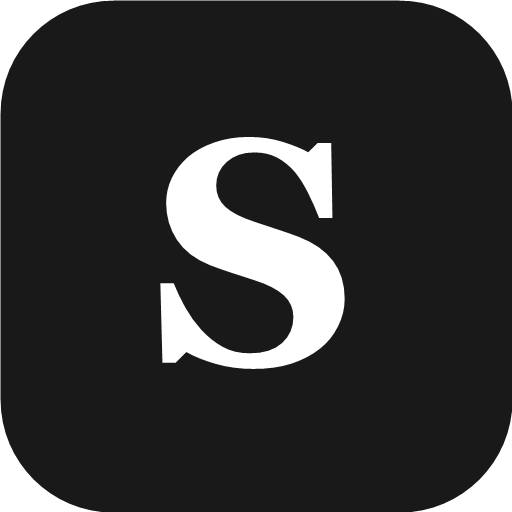
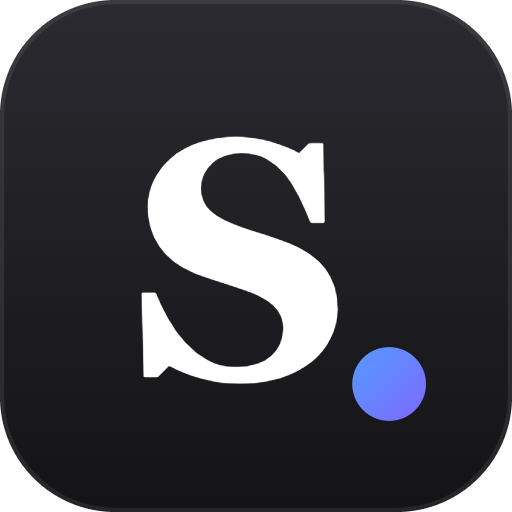
새 아이콘(검은 바탕·세리프 S·파란 점), 상단 바 검은색, 프로그램 설치 버튼 아이콘 단순하게

diff --git a/css/app.css b/css/app.css
@@ -29,18 +29,23 @@ button { cursor: pointer; }
 [hidden] { display: none !important; }
 
 /* 제목 줄 */
-.titlebar { display: flex; align-items: center; gap: 10px; padding: 0 12px; padding-top: env(safe-area-inset-top); height: calc(46px + env(safe-area-inset-top)); background: var(--paper); color: var(--ink); border-bottom: 1px solid var(--line); flex: none; }
+/* 상단 바: 검은색 */
+.titlebar { display: flex; align-items: center; gap: 10px; padding: 0 12px; padding-top: env(safe-area-inset-top); height: calc(46px + env(safe-area-inset-top)); background: #191919; color: #fff; flex: none; }
+.logo-img { width: 26px; height: 26px; border-radius: 6px; display: block; }
+.logo-img.big { width: 48px; height: 48px; border-radius: 11px; margin-bottom: 10px; }
+.ico { width: 17px; height: 17px; flex: none; }
 .brand { display: flex; align-items: center; gap: 8px; font-weight: 600; white-space: nowrap; }
 .logo { width: 24px; height: 24px; border-radius: 6px; background: var(--logo-bg); color: var(--logo-fg); display: grid; place-items: center; font-weight: 800; font-size: 15px; font-family: Georgia, "Times New Roman", serif; }
-.search { flex: 1; max-width: 420px; margin: 0 auto; display: flex; align-items: center; gap: 6px; background: var(--hover); border-radius: 6px; padding: 0 10px; height: 30px; color: var(--muted); }
+.search { flex: 1; max-width: 420px; margin: 0 auto; display: flex; align-items: center; gap: 6px; background: rgba(255, 255, 255, .1); border-radius: 6px; padding: 0 10px; height: 30px; color: rgba(255, 255, 255, .6); }
+.search:focus-within { background: rgba(255, 255, 255, .16); }
 .search svg { width: 15px; height: 15px; fill: none; stroke: currentColor; stroke-width: 2; flex: none; }
-.search input { flex: 1; min-width: 0; border: 0; background: transparent; outline: none; color: var(--ink); }
-.search input::placeholder { color: var(--muted); }
-.sync { font-size: 12px; color: var(--muted); white-space: nowrap; }
-.tb-btn { background: transparent; border: 0; color: var(--ink); height: 30px; min-width: 30px; border-radius: 6px; padding: 0 8px; }
-.tb-btn:hover { background: var(--hover); }
+.search input { flex: 1; min-width: 0; border: 0; background: transparent; outline: none; color: #fff; }
+.search input::placeholder { color: rgba(255, 255, 255, .55); }
+.sync { font-size: 12px; color: rgba(255, 255, 255, .6); white-space: nowrap; }
+.tb-btn { background: transparent; border: 0; color: #fff; height: 30px; min-width: 30px; border-radius: 6px; padding: 0 8px; }
+.tb-btn:hover { background: rgba(255, 255, 255, .12); }
 #navBack { font-size: 24px; line-height: 1; }
-.acct { font-size: 12px; border: 1px solid var(--line-2); white-space: nowrap; max-width: 160px; overflow: hidden; text-overflow: ellipsis; }
+.acct { font-size: 12px; border: 1px solid rgba(255, 255, 255, .25); white-space: nowrap; max-width: 160px; overflow: hidden; text-overflow: ellipsis; }
 
 /* 리본 */
 .ribbon-tabs { display: flex; gap: 2px; background: var(--paper); padding: 0 8px; flex: none; overflow-x: auto; }

diff --git a/index.html b/index.html
@@ -4,7 +4,7 @@
 <meta charset="utf-8">
 <meta name="viewport" content="width=device-width,initial-scale=1,viewport-fit=cover">
 <title>에스 노트</title>
-<meta name="theme-color" content="#ffffff">
+<meta name="theme-color" content="#191919">
 <link rel="icon" href="icons/icon.svg" type="image/svg+xml">
 <link rel="icon" href="icons/icon-192.png" sizes="192x192">
 <link rel="apple-touch-icon" href="icons/icon-180.png">
@@ -22,7 +22,7 @@
 <header class="titlebar">
   <button class="tb-btn only-narrow" id="navBack" aria-label="뒤로" hidden>‹</button>
   <button class="tb-btn wide-only" id="navToggle" title="목록 접기 (전체 페이지 보기)" aria-label="목록 접기·펴기">☰</button>
-  <div class="brand"><span class="logo">S</span><span class="brand-name">에스 노트</span></div>
+  <div class="brand"><img class="logo-img" src="icons/icon-192.png" alt=""><span class="brand-name">에스 노트</span></div>
   <label class="search"><svg viewBox="0 0 20 20" aria-hidden="true"><circle cx="8.5" cy="8.5" r="5.5"/><path d="M13 13l4 4"/></svg><input id="search" type="search" placeholder="모든 노트 검색" autocomplete="off"></label>
   <span class="sync" id="sync" role="status"></span>
   <button class="tb-btn" id="focusBtn" title="글만 크게 보기 (메뉴 숨기기)" aria-label="글만 크게 보기">⤢</button>
@@ -104,7 +104,7 @@
   </div>
 
   <div class="panel" data-panel="settings" hidden>
-    <div class="grp"><button class="big" id="openSettings">⚙ 설정 열기</button><button class="big" id="openStorage">☁ 저장 위치·계정</button><button class="big" id="installApp">💻 프로그램으로 설치</button></div>
+    <div class="grp"><button class="big" id="openSettings">⚙ 설정 열기</button><button class="big" id="openStorage">☁ 저장 위치·계정</button><button class="big" id="installApp"><svg class="ico" viewBox="0 0 20 20" aria-hidden="true"><path d="M10 3v9.5M6.2 8.8 10 12.6l3.8-3.8M4 14.5V17h12v-2.5" fill="none" stroke="currentColor" stroke-width="1.7" stroke-linecap="round" stroke-linejoin="round"/></svg>프로그램으로 설치</button></div>
     <div class="grp"><button class="big" id="importOneNote"><span class="fi one">N</span>원노트에서 가져오기</button></div>
   </div>
 </div>

diff --git a/js/app.js b/js/app.js
@@ -1078,7 +1078,7 @@ function driveGate() {
 }
 function welcome() {
   $('modal').dataset.locked = '1';
-  modal(`<div class="welcome"><span class="logo">S</span><h2>에스 노트에 오신 걸 환영해요</h2><p>노트를 어디에 저장할까요? 나중에 설정에서 바꿀 수 있어요.</p>
+  modal(`<div class="welcome"><img class="logo-img big" src="icons/icon-192.png" alt=""><h2>에스 노트에 오신 걸 환영해요</h2><p>노트를 어디에 저장할까요? 나중에 설정에서 바꿀 수 있어요.</p>
     <button class="choice" id="wDrive" ${CLIENT_ID ? '' : 'disabled'}><b>☁ 구글 드라이브에 저장 (추천)</b><small>${CLIENT_ID ? '휴대폰·컴퓨터 어디서나 같은 노트를 볼 수 있어요. 내 드라이브의 “에스 노트” 폴더만 사용해요.' : '아직 구글 연결 설정이 안 돼 있어요. README.md의 순서대로 config.js에 클라이언트 ID를 넣으면 쓸 수 있어요.'}</small></button>
     <button class="choice" id="wLocal"><b>💾 이 기기에만 저장 (체험)</b><small>로그인 없이 바로 써 볼 수 있어요. 다른 기기와 연동되지 않아요.</small></button></div>`, m => {
     m.querySelector('#wDrive').onclick = () => { delete $('modal').dataset.locked; closeModal(); localStorage.setItem('dn-mode', 'drive'); startDrive(true); };

diff --git a/sw.js b/sw.js
@@ -1,11 +1,11 @@
 // 설치한 앱이 빨리 열리고, 인터넷이 잠깐 끊겨도 화면은 뜨도록 앱 파일을 보관
 // 항상 새 버전을 먼저 받아 오고(고친 내용이 바로 반영), 못 받으면 보관한 것을 씀
-const CACHE = 'es-note-v9';
+const CACHE = 'es-note-v10';
 const LIBS = [
   'https://cdnjs.cloudflare.com/ajax/libs/jszip/3.10.1/jszip.min.js',
   'https://cdn.jsdelivr.net/npm/xlsx@0.18.5/dist/xlsx.full.min.js',
 ];
-const SHELL = ['./', 'index.html', 'css/app.css', 'config.js', 'manifest.webmanifest', 'icons/icon.svg', 'icons/icon-192.png',
+const SHELL = ['./', 'index.html', 'css/app.css', 'config.js', 'manifest.webmanifest', 'icons/icon.svg', 'icons/icon-192.png', 'icons/icon-512.png',
   'js/app.js', 'js/doc.js', 'js/onenote.js', 'js/docx-import.js', 'js/editor.js', 'js/hwpx.js', 'js/hwpx-template.js', 'js/store.js', 'js/xlsx.js', ...LIBS];
 
 self.addEventListener('install', e => {
